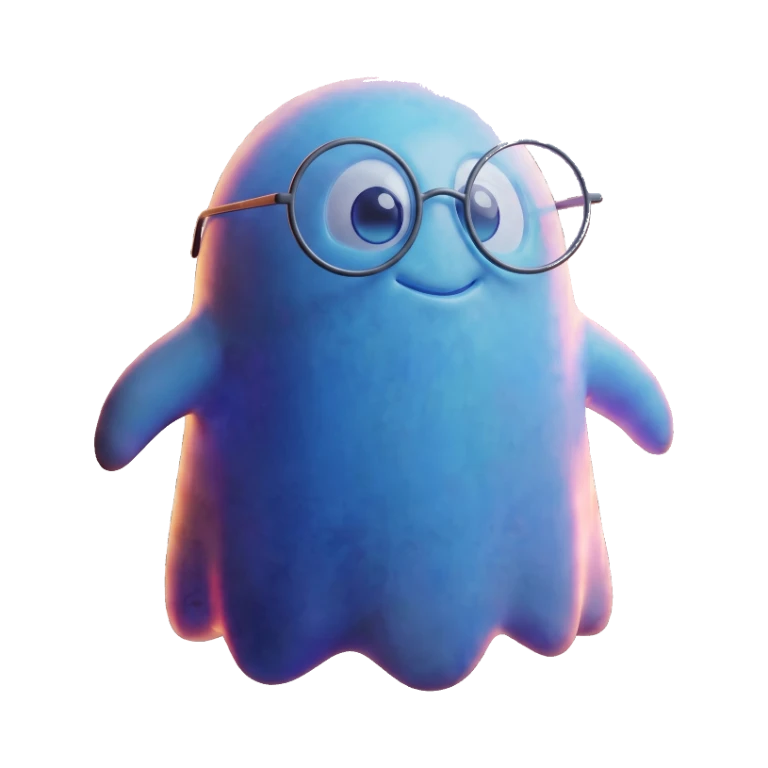
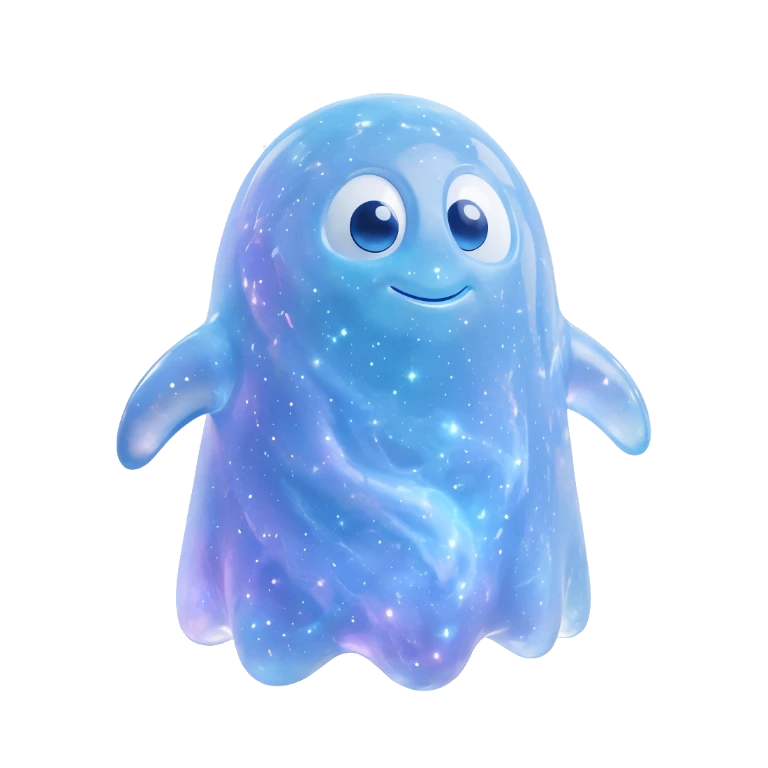
Give every evolution stage its own artwork
Stages 2-5 were one ghost wearing four different hats, and the shop sold
glasses and a hat that the ghost already had on - so buying them changed
nothing. New art drops the accessories: the silhouette is identical across
stages and progression reads from what is inside the body (flat colour ->
sheen -> sparks -> glass with stars -> galaxy). Anything wearable now comes
only from the shop.

All four were cut from a single sheet with ONE shared frame, matched to the
baby already in the app (body 77.6-78.0% of canvas, bottom at 90%, centred),
so the ghost no longer jumps during an evolution. Stage 5 finally has real
art and the ghost-level-1 placeholder is gone.

Auras retinted to the new palette - stage 4 was orange for the graduation
cap, stage 5 yellow for the crown; neither exists any more.

New tools/webp-server.ps1: the machine has no Node, Python or ImageMagick
and System.Drawing cannot write WebP, so it serves a page that encodes via
canvas.toBlob. Frame discipline and the pipeline are written up in
tools/README-mascot.md.

diff --git a/client/src/lib/pet-config.ts b/client/src/lib/pet-config.ts
@@ -1,25 +1,32 @@
-import ghostLevel1 from "@/assets/mascot/ghost-level-1.webp";
-import ghostStage1 from "@/assets/mascot/ghost-stage-1.webp";
+import ghostStage1 from "@/assets/mascot/ghost-stage-1.webp";
 import ghostStage2 from "@/assets/mascot/ghost-stage-2.webp";
 import ghostStage3 from "@/assets/mascot/ghost-stage-3.webp";
 import ghostStage4 from "@/assets/mascot/ghost-stage-4.webp";
+import ghostStage5 from "@/assets/mascot/ghost-stage-5.webp";
 
 /**
  * Правила редактирования (для владельца):
  * - призрак — КАРТИНКИ на прозрачном фоне (как рисовать — см. документ
  *   «JKids_Bot_спецификация_картинок.md» в папке с документами)
  * - когда картинки готовы: положи файлы в client/src/assets/mascot
- *   (ghost-stage-1.png … ghost-stage-5.png), добавь import сверху как у
- *   ghostLevel1 и поставь его в поле image нужной стадии
- * - каждую новую картинку сначала прогнать через tools/cutout-mascot.ps1
- *   (вырежет фон, обрежет поля, поставит персонажа по спецификации),
- *   потом сжать в WebP (tools/README-mascot.md — как именно)
- * - стадии 1–4 — готовый арт; на 5-й пока стоит картинка-заглушка
+ *   (ghost-stage-1.webp … ghost-stage-5.webp), добавь import сверху
+ *   и поставь его в поле image нужной стадии
+ * - как готовить файл — см. tools/README-mascot.md (вырезка фона,
+ *   общий кадр, сжатие в WebP через tools/webp-server.ps1)
  * - имена стадий (name), свечение (aura) и фразы (PET_PHRASES)
  *   можно менять свободно; fromLevel — с какого уровня начинается стадия
  * - призрак ОДНОГО размера на всех стадиях (решение владельца 08.07.2026):
- *   так одежда-спрайты ложится одинаково; «взросление» показываем самой
- *   картинкой стадии, свечением и именем
+ *   так одежда-спрайты ложится одинаково
+ *
+ * АРТ (решение владельца 21.07.2026, окончательное):
+ * - силуэт у всех стадий ОДИНАКОВЫЙ, растёт только внутреннее наполнение:
+ *   гладкий цвет → перелив → искры → стекло со звёздами → галактика.
+ *   Не предлагать «менять форму» заново, это обсуждено и закрыто;
+ * - стадии ГОЛЫЕ: всё надеваемое приходит спрайтами из магазина, иначе
+ *   покупка очков на призраке, у которого очки нарисованы, бессмысленна;
+ * - все пять картинок выровнены по одной рамке: тело 77,6–78,0% высоты
+ *   холста, нижний край на 90%, центр по середине. Ломать выравнивание
+ *   нельзя — призрак начнёт прыгать при эволюции.
  */
 
 export type PetStage = {
@@ -35,7 +42,7 @@ export type PetStage = {
 
 export const PET_STAGES: PetStage[] = [
   {
-    // малыш в подгузнике, нарочито маленький и милый
+    // малыш в подгузнике — единственная стадия из первой генерации
     fromLevel: 1,
     name: "Зритель",
     image: ghostStage1,
@@ -44,7 +51,7 @@ export const PET_STAGES: PetStage[] = [
       "Ты только заглянул в 3D и смотришь, как это устроено. Все начинали отсюда — даже те, чьими работами ты сейчас восхищаешься.",
   },
   {
-    // шапка-бини со значком Blender
+    // ровный цвет с лёгким переливом
     fromLevel: 5,
     name: "Ученик",
     image: ghostStage2,
@@ -53,7 +60,7 @@ export const PET_STAGES: PetStage[] = [
       "Ты уже не боишься открыть Blender: знаешь, где что лежит, и можешь собрать простую форму сам. Дальше — учиться делать это красиво.",
   },
   {
-    // круглые очки
+    // внутри тела зажигаются первые искры
     fromLevel: 12,
     name: "Моделлер",
     image: ghostStage3,
@@ -62,22 +69,20 @@ export const PET_STAGES: PetStage[] = [
       "Ты держишь форму под контролем: задумал предмет — и он получается похожим. Так называют тех, кто делает модели за деньги.",
   },
   {
-    // выпускная шапочка со значком Blender
+    // прозрачное стекло, внутри звёздная пыль
     fromLevel: 20,
     name: "Художник",
     image: ghostStage4,
-    aura: "drop-shadow(0 14px 34px rgba(249, 115, 22, 0.4))",
+    aura: "drop-shadow(0 14px 34px rgba(96, 165, 250, 0.42))",
     about:
       "Тебе мало «похоже» — ты думаешь про свет, материалы и кадр. Именно здесь работа начинает нравиться другим людям.",
   },
   {
-    // Ждёт арта: корона. Присланная картинка не годится — вокруг короны
-    // намертво впечатано жёлтое свечение вместе с фоном, вырезать начисто
-    // нельзя. Нужна перерисовка без свечения.
+    // внутри целая галактика — самая яркая ступень
     fromLevel: 30,
     name: "Творец",
-    image: ghostLevel1,
-    aura: "drop-shadow(0 16px 38px rgba(250, 204, 21, 0.5))",
+    image: ghostStage5,
+    aura: "drop-shadow(0 16px 38px rgba(167, 139, 250, 0.5))",
     about:
       "Ты придумываешь своё, а не повторяешь чужое. Дошёл сюда — значит, занимался месяцами и не бросил. Это и есть главное умение.",
   },

diff --git a/tools/README-mascot.md b/tools/README-mascot.md
@@ -16,12 +16,40 @@ powershell -File tools\cutout-mascot.ps1 -In "путь\к\5.png" -Out "5-cut.png
 Если сквозь прозрачную деталь (стекло очков) просвечивает шахматка,
 добавь ключ `-KillInside`.
 
+## 1а. ВАЖНО: у всех стадий должен быть ОДИН кадр
+
+`cutout-mascot.ps1` обрезает картинку по границам персонажа и растягивает
+его на 80% холста. Для одиночной картинки это правильно, а для НАБОРА
+стадий — ломает всё: у кого силуэт короче, того растянут сильнее, и призрак
+запрыгает при эволюции. Именно так разъехались первые пять стадий.
+
+Поэтому набор режется одним общим кадром. Мерка снята с малыша
+(`ghost-stage-1.webp`), под неё подогнаны остальные:
+
+- высота тела — **77,6–78,0%** высоты холста
+- нижний край тела — **90%**
+- центр — **50%**
+
+Проверять после нарезки, до сжатия. Разброс больше половины процента
+уже заметен глазом на эволюции.
+
 ## 2. Сжать в WebP
 
 Картинка после вырезки весит пару мегабайт — в приложение столько класть
-нельзя. Сжимаем браузером: поднимаем локальную страничку, которая рисует
-картинку на canvas 768×768 и отдаёт `canvas.toBlob(..., 'image/webp', 0.9)`.
-Выходит 27–37 КБ при том же виде на экране.
+нельзя. На машине нет ни Node, ни Python, ни ImageMagick, а System.Drawing
+не умеет писать WebP. Умеет браузер, поэтому:
+
+```
+powershell -File tools\webp-server.ps1 -InDir <папка с png> -OutDir <куда>
+```
+
+затем открыть `http://localhost:8791/` и дождаться «ALL DONE» — страничка
+сама переберёт все файлы, нарисует каждый на canvas 768×768, отдаст
+`canvas.toBlob(..., 'image/webp', 0.9)` и отправит результат обратно.
+Сервер выключится сам. Выходит 26–58 КБ при том же виде на экране.
+
+Если запускаешь это из агента: сервер надо стартовать ОТДЕЛЬНЫМ фоновым
+процессом (`Start-Job` между вызовами инструментов не выживает).
 
 768 пикселей взяты с запасом: на главном экране призрак 240 CSS-пикселей,
 на телефонах с плотным экраном это до 720 реальных.
@@ -31,6 +59,19 @@ powershell -File tools\cutout-mascot.ps1 -In "путь\к\5.png" -Out "5-cut.png
 Файл кладём в `client/src/assets/mascot/ghost-stage-N.webp`, добавляем
 `import` наверху `client/src/lib/pet-config.ts` и ставим его в поле `image`
 нужной стадии.
+
+## Что сделано 21.07.2026
+
+Стадии 2–5 перерисованы одним листом (пять фигур в ряд) и нарезаны с общим
+кадром. Силуэт у всех одинаковый — растёт только внутреннее наполнение:
+ровный цвет → перелив → искры → стекло со звёздами → галактика. Решение
+владельца, обсуждено и закрыто. Стадия 1 (малыш в подгузнике) осталась
+из первой генерации.
+
+Исходный лист приходил размером 4096×2304 с НАРИСОВАННОЙ шахматкой,
+фигура — 855 точек в высоту. Это БОЛЬШЕ, чем нужно приложению (тело
+в готовом файле ~600 точек), поэтому апскейл не потребовался — только
+уменьшение, а оно качество не портит.
 
 ## Чего ждать от исходников
 